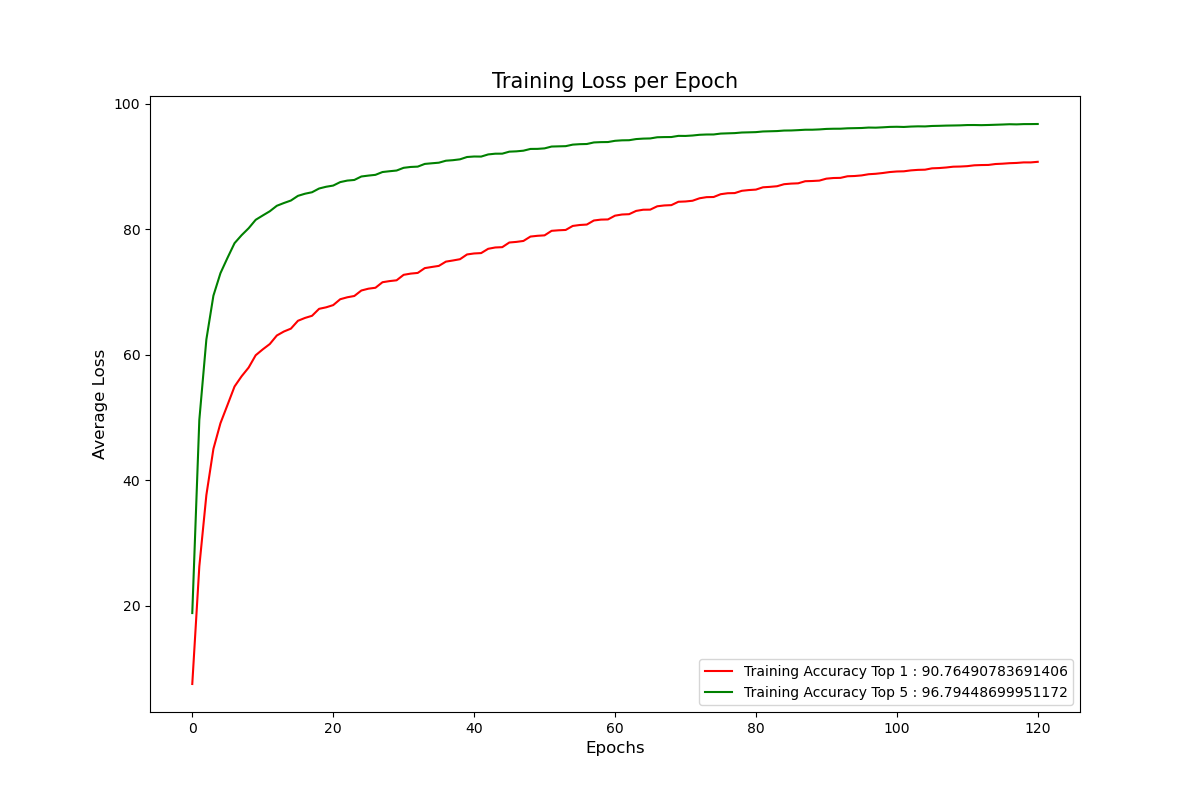
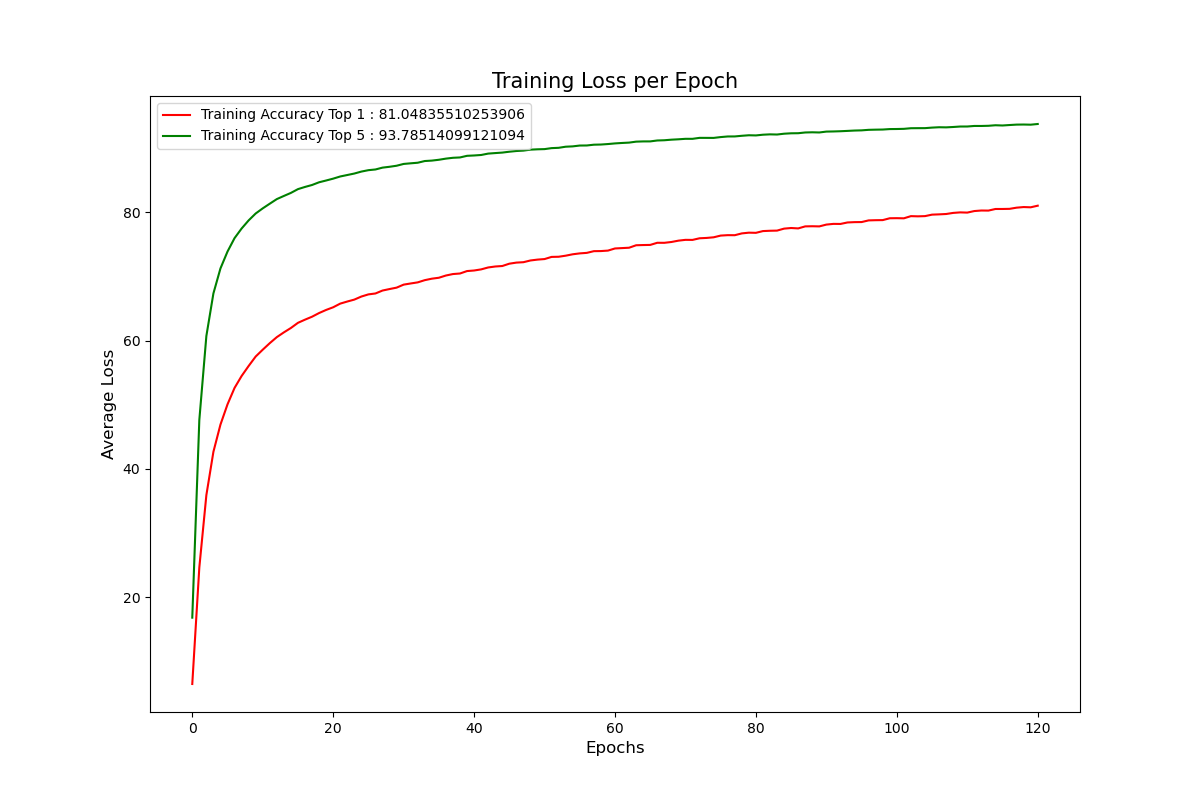
[20220425] ResNet-50 Update

diff --git a/README.md b/README.md
@@ -108,6 +108,12 @@ Validation
   Top-1 Accuracy : 74.050%  
   Top-5 Accuracy : 91.294%  
 
-  
+## 7. ResNet-50
 
+Training 
+  Top-1 Accuracy : 81.047%
+  Top-5 Accuracy : 93.785%
 
+Validation
+  Top-1 Accuracy : 70.143%
+  Top-5 Accuracy : 89.534%
